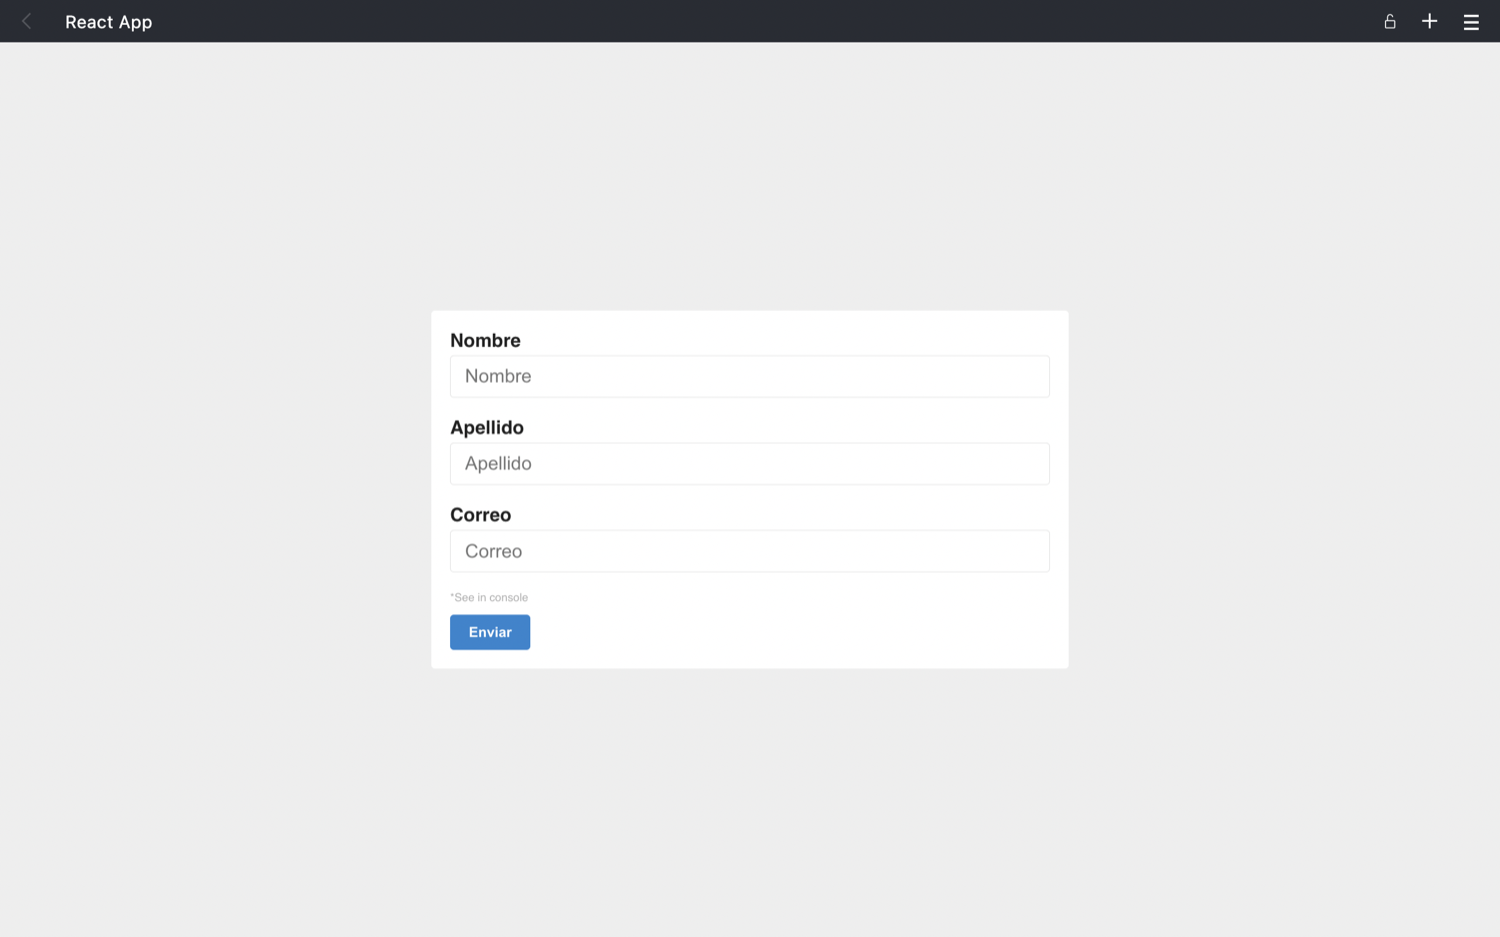
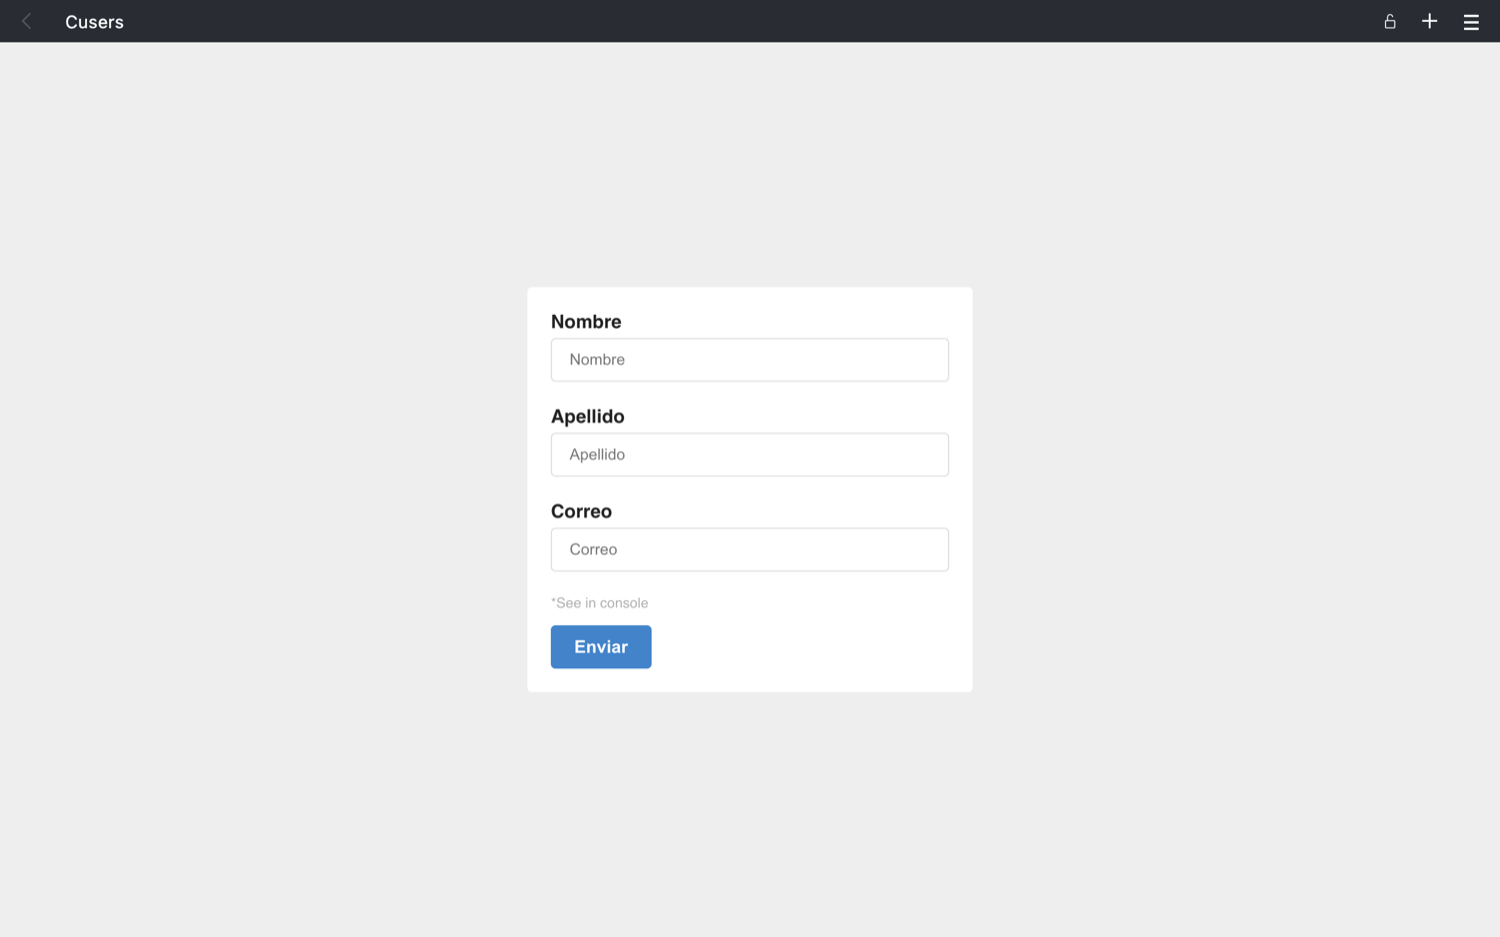
368

diff --git a/src/components/Input.css b/src/components/Input.css
@@ -7,13 +7,11 @@
   margin: 0 0 5px 0;
   color: #222;
   font-weight: 700;
-  font-size: 20px;
 }
 
 .field input {
   background-color: #fff;
   outline: 0;
-  font-size: 20px;
   padding: 10px 15px;
   border: 1px solid rgb(34,34,34,0.15);
   color: #222;

diff --git a/src/components/Container.css b/src/components/Container.css
@@ -1,5 +1,5 @@
 .container {
-  width: 700px;
+  width: 400px;
   margin-left: auto;
   margin-right: auto;
 }
